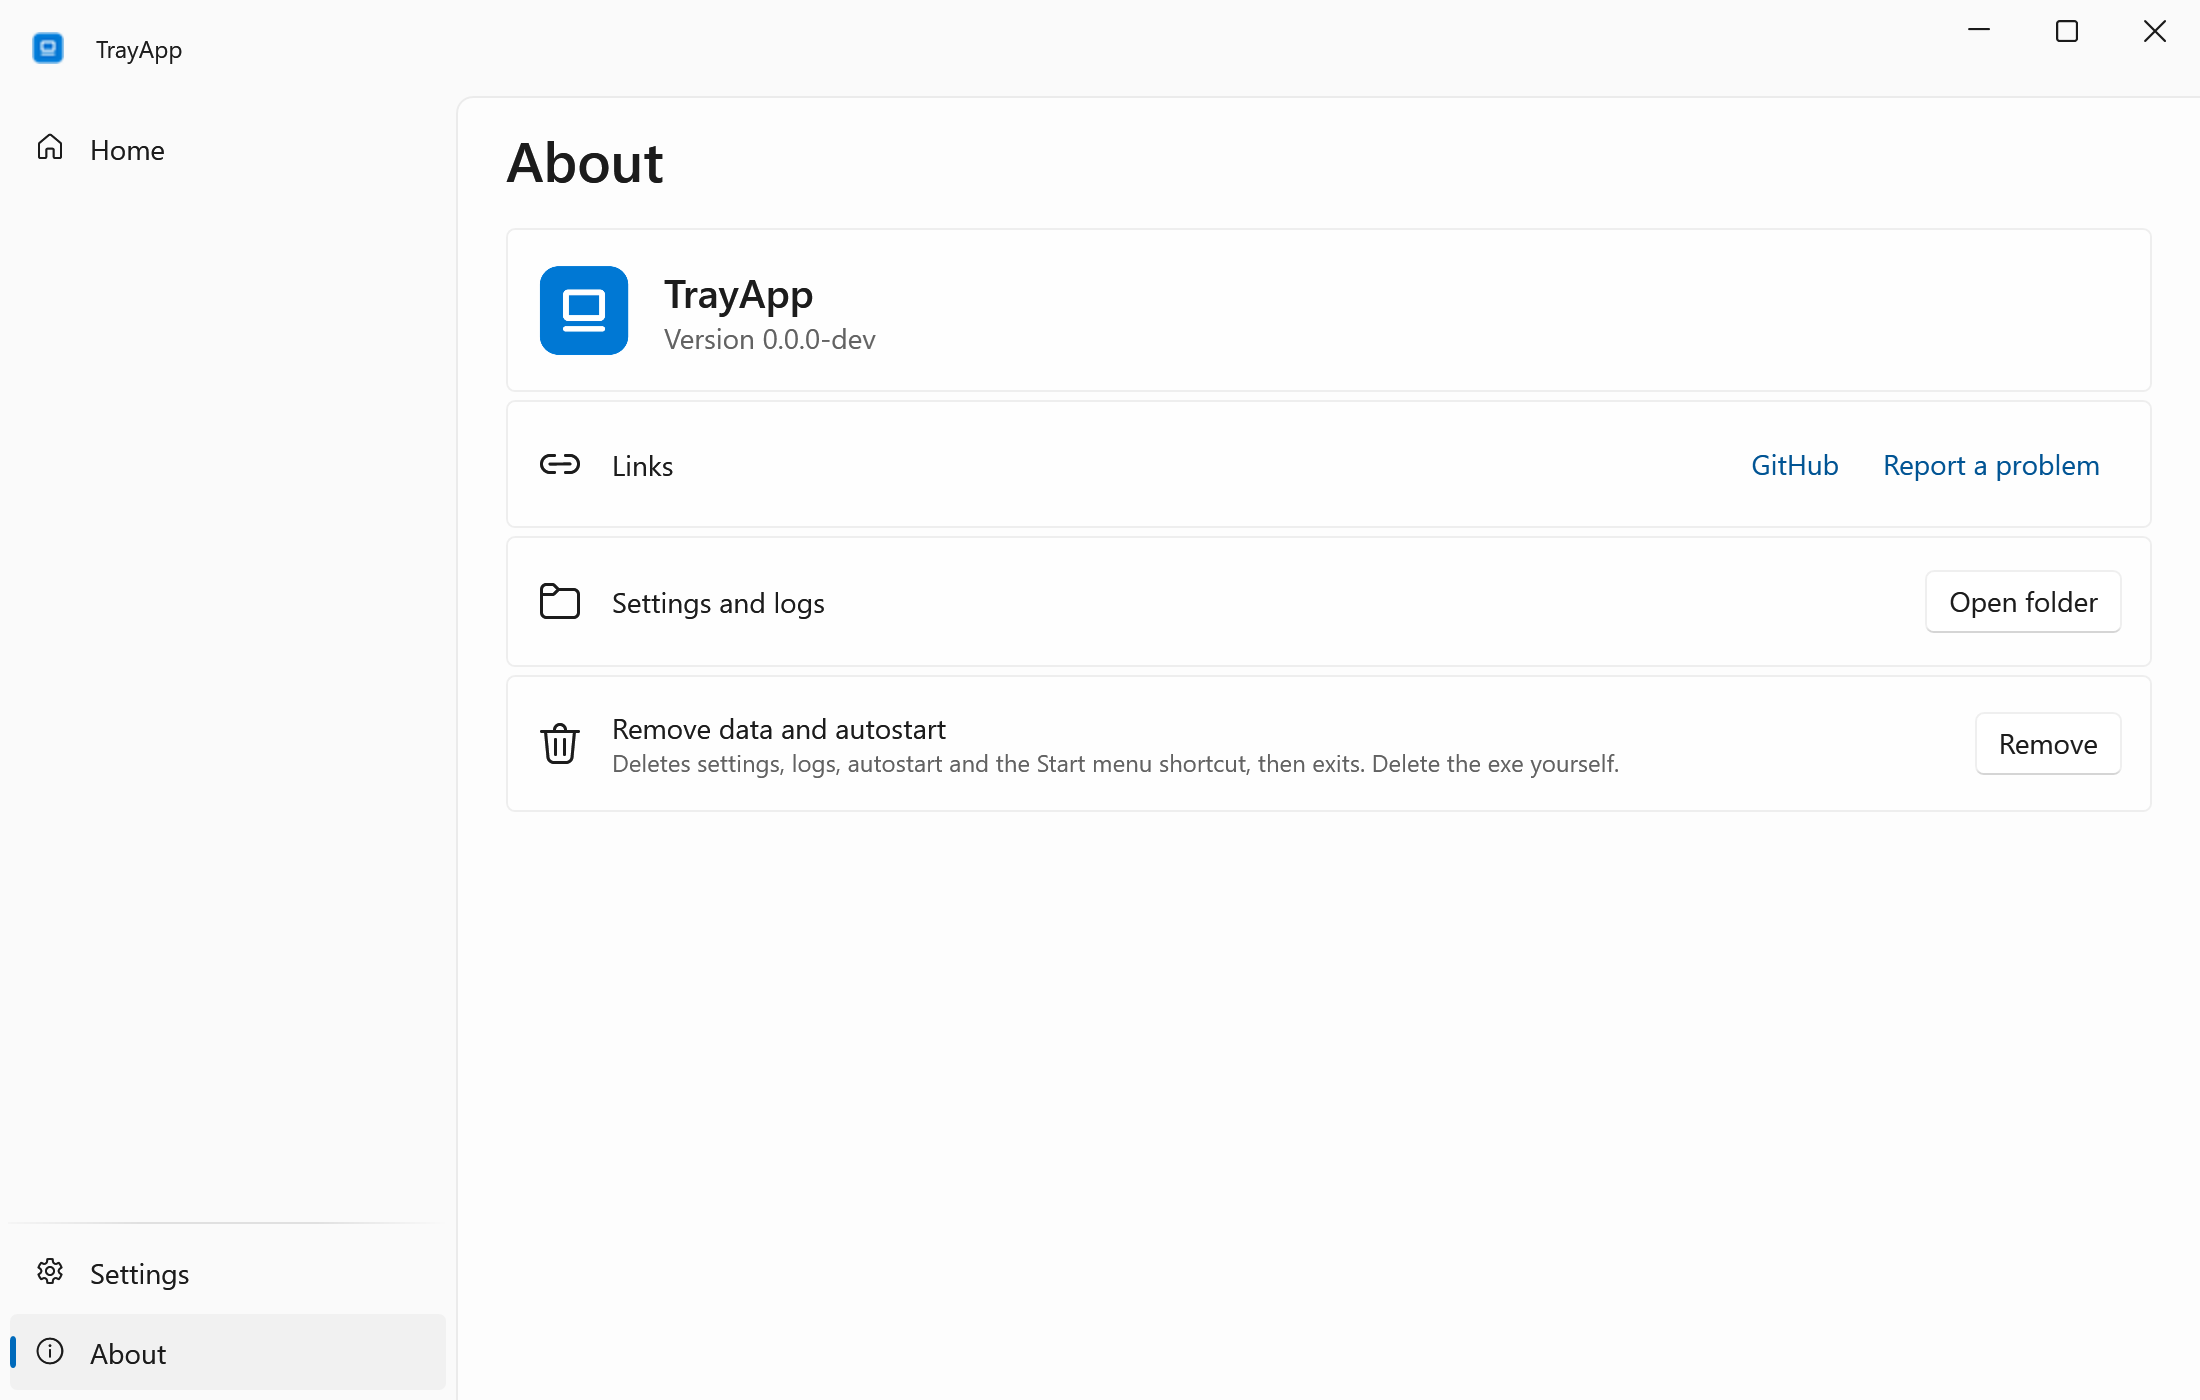
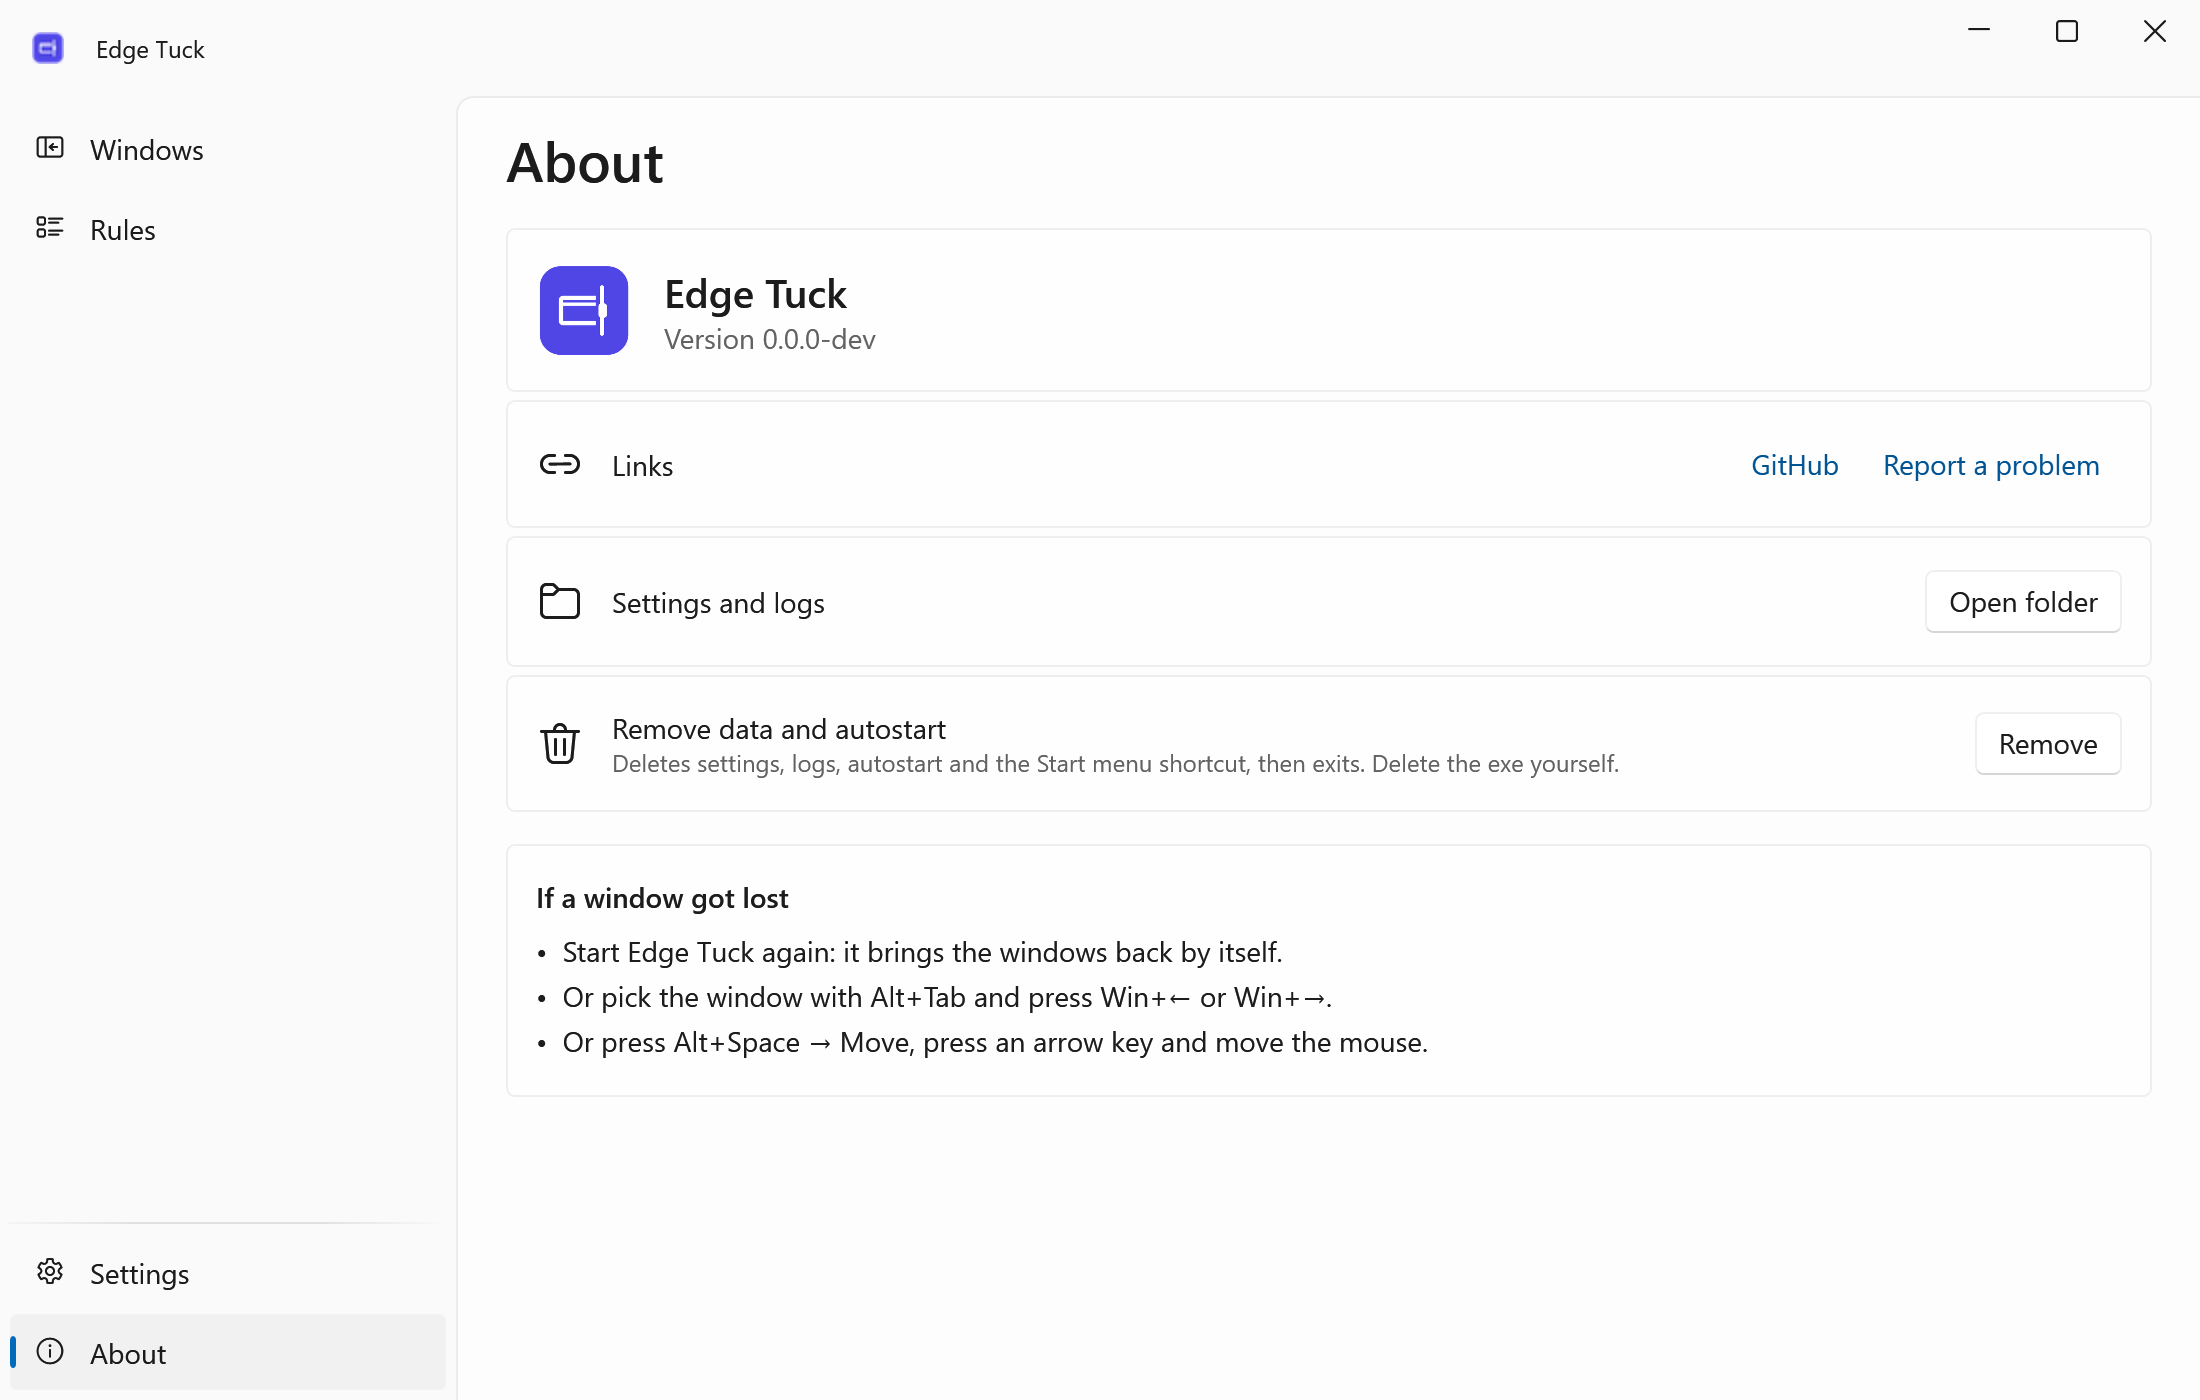
Tray screenshot renders the menu itself, scene backdrop avoids WPF-UI's Window style, rule monitor names match loosely

diff --git a/src/EdgeTuck/Features/TrayMenu.cs b/src/EdgeTuck/Features/TrayMenu.cs
@@ -61,13 +61,12 @@ public static class TrayMenu
         menu.Items.Add(new Separator());
         menu.Items.Add(Tray.Item(Loc.T("Tray.Exit"), () => { }));
         Rebuild(menu);
-        var host = new Border { Padding = new Thickness(12), Child = menu };
-        host.SetResourceReference(Border.BackgroundProperty, "ApplicationBackgroundBrush");
-        host.Measure(new Size(double.PositiveInfinity, double.PositiveInfinity));
-        host.Arrange(new Rect(host.DesiredSize));
-        host.UpdateLayout();
-        var bmp = new System.Windows.Media.Imaging.RenderTargetBitmap((int)Math.Ceiling(host.ActualWidth * 2), (int)Math.Ceiling(host.ActualHeight * 2), 192, 192, System.Windows.Media.PixelFormats.Pbgra32);
-        bmp.Render(host);
+        // A ContextMenu may have no parent: render it on its own
+        menu.Measure(new Size(double.PositiveInfinity, double.PositiveInfinity));
+        menu.Arrange(new Rect(menu.DesiredSize));
+        menu.UpdateLayout();
+        var bmp = new System.Windows.Media.Imaging.RenderTargetBitmap((int)Math.Ceiling(menu.ActualWidth * 2), (int)Math.Ceiling(menu.ActualHeight * 2), 192, 192, System.Windows.Media.PixelFormats.Pbgra32);
+        bmp.Render(menu);
         var png = new System.Windows.Media.Imaging.PngBitmapEncoder();
         png.Frames.Add(System.Windows.Media.Imaging.BitmapFrame.Create(bmp));
         System.IO.Directory.CreateDirectory(System.IO.Path.GetDirectoryName(System.IO.Path.GetFullPath(path))!);

diff --git a/src/EdgeTuck/Features/Rules.cs b/src/EdgeTuck/Features/Rules.cs
@@ -21,10 +21,14 @@ public static class Rules
     /// </summary>
     public static (Display Monitor, Rectangle Frame) Target(Rule r, Rectangle frame, IReadOnlyList<Display> monitors)
     {
-        var m = monitors.FirstOrDefault(d => d.Device == r.Monitor)
+        var m = monitors.FirstOrDefault(d => SameMonitor(d.Device, r.Monitor))
             ?? (monitors.Any(d => d.Bounds.IntersectsWith(frame)) ? Geometry.MonitorOf(frame, monitors) : Primary(monitors));
         return (m, Geometry.CenteredAlong(frame, r.Edge, Geometry.AlongPoint(m, r.Edge, r.Along)));
     }
+
+    /// <summary>@"\\.\DISPLAY2", "DISPLAY2" and "display2" are the same monitor (hand-edited settings).</summary>
+    public static bool SameMonitor(string? a, string? b) =>
+        a is not null && b is not null && a.TrimStart('\\', '.').Equals(b.TrimStart('\\', '.'), StringComparison.OrdinalIgnoreCase);
 
     public static Display Primary(IReadOnlyList<Display> monitors) =>
         monitors.FirstOrDefault(d => d.Bounds.Contains(0, 0)) ?? monitors[0];

diff --git a/tests/EdgeTuck.Tests/JournalRulesTests.cs b/tests/EdgeTuck.Tests/JournalRulesTests.cs
@@ -84,6 +84,9 @@ public class JournalRulesTests
         Assert.AreEqual(512 - 240, frame.Top);
         Assert.AreEqual(Rectangle.FromLTRB(3440, 1520, 4200, 2000), Geometry.Tuck(o, m, spotify.Edge, frame).Plan!.Shown);
 
+        var handEdited = new Rule { Exe = "scrcpy.exe", Edge = Edge.Right, Monitor = "display2" };
+        Assert.AreEqual(Layouts.Display2, Rules.Target(handEdited, new Rectangle(100, 100, 360, 760), o).Monitor, "monitor name without the device prefix, in any case");
+
         var gone = new Rule { Exe = "scrcpy.exe", Edge = Edge.Right, Monitor = @"\\.\DISPLAY3" };
         Assert.AreEqual(Layouts.Display2, Rules.Target(gone, new Rectangle(3600, 100, 360, 760), o).Monitor, "the monitor the window is on");
         Assert.AreEqual(Layouts.Display1, Rules.Target(gone, new Rectangle(-5000, 100, 360, 760), o).Monitor, "off screen: the primary");

diff --git a/src/EdgeTuck/Demo/DemoData.cs b/src/EdgeTuck/Demo/DemoData.cs
@@ -56,7 +56,7 @@ public static class DemoData
             var a = along ?? (Geometry.IsVertical(e) ? w.Top + (w.Height - size.Height) / 2 : w.Left + (w.Width - size.Width) / 2);
             return Geometry.IsVertical(e) ? new(new Point(w.Left + 100, a), size) : new(new Point(a, w.Top + 100), size);
         }
-        if (monitors.FirstOrDefault(d => d.Device == s.Device) is { } own && Geometry.Tuck(monitors, own, s.Edge, Frame(own, s.Edge, s.Along)).Plan is not null)
+        if (monitors.FirstOrDefault(d => Rules.SameMonitor(d.Device, s.Device)) is { } own && Geometry.Tuck(monitors, own, s.Edge, Frame(own, s.Edge, s.Along)).Plan is not null)
             return (own, s.Edge, Frame(own, s.Edge, s.Along));
         var primary = Rules.Primary(monitors);
         foreach (var e in new[] { Edge.Right, Edge.Left, Edge.Bottom, Edge.Top })

diff --git a/src/EdgeTuck/Demo/Autoplay.cs b/src/EdgeTuck/Demo/Autoplay.cs
@@ -103,7 +103,7 @@ public static class Autoplay
     /// <summary>A plain window over DISPLAY2 under the demo windows: no wallpaper or other windows in the frame.</summary>
     static void Backdrop(Display d2, uint rgb)
     {
-        var w = new Window
+        var w = new BackdropWindow
         {
             WindowStyle = WindowStyle.None, ResizeMode = ResizeMode.NoResize, ShowInTaskbar = false,
             Background = new SolidColorBrush(System.Windows.Media.Color.FromRgb((byte)(rgb >> 16), (byte)(rgb >> 8), (byte)rgb)),
@@ -117,6 +117,9 @@ public static class Autoplay
         };
         w.Show();
     }
+
+    /// <summary>A subclass, so WPF-UI's implicit Window style (it sets AllowsTransparency) does not reach it.</summary>
+    sealed class BackdropWindow : Window;
 
     static void WriteRect(Rectangle r)
     {
